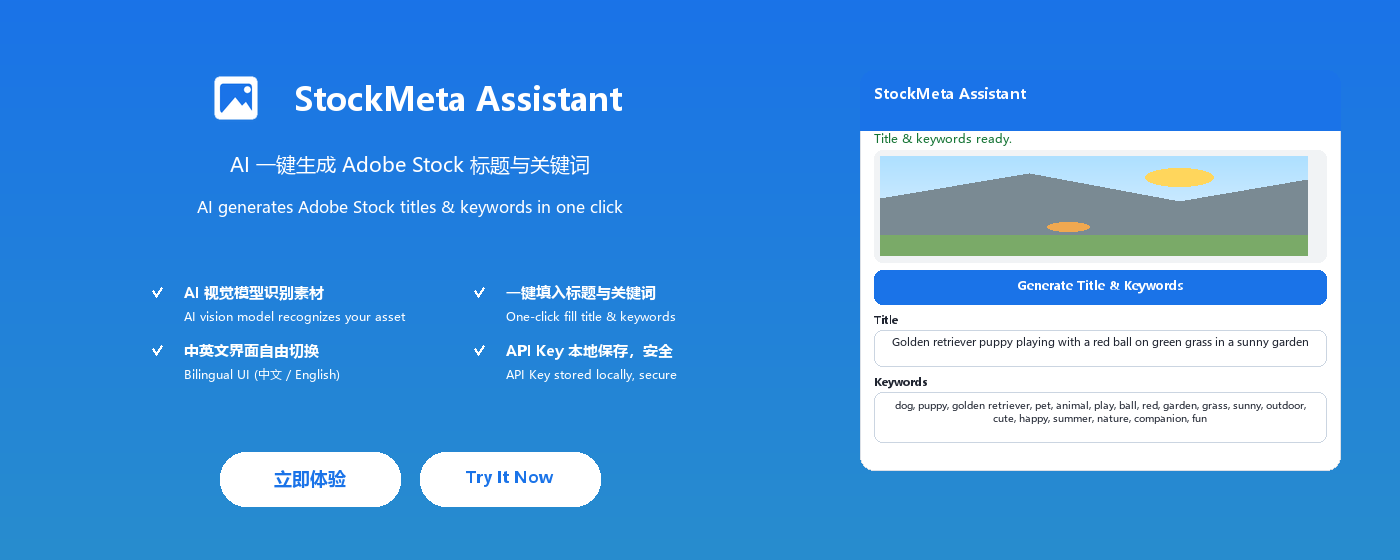
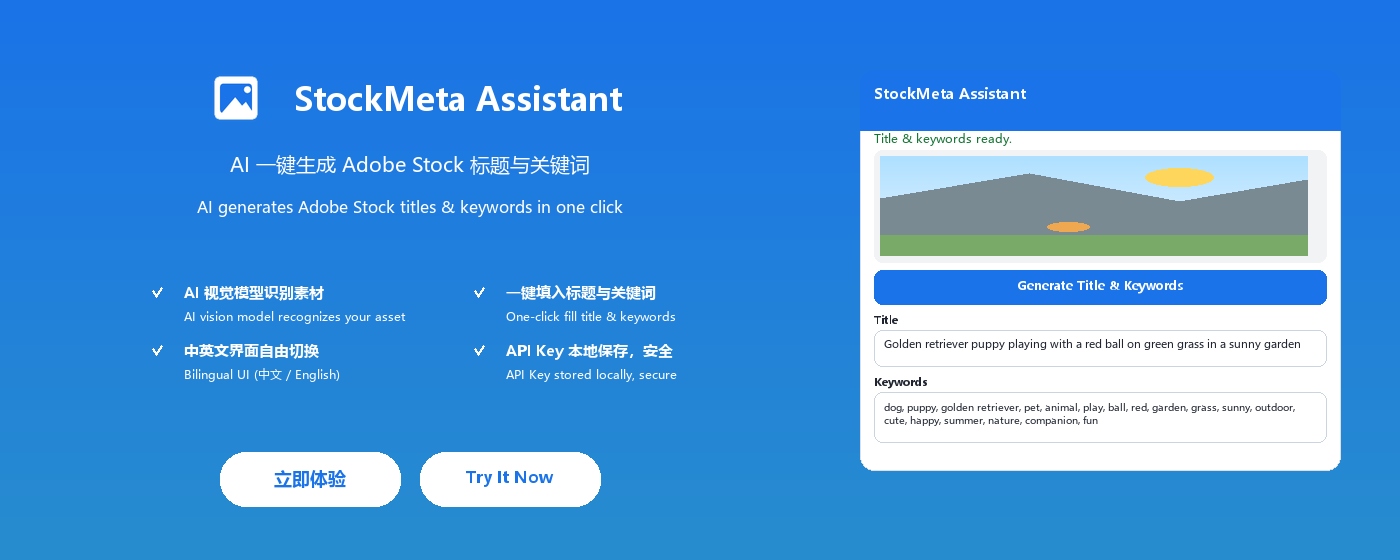
promo 里 mini 面板的 Title / Keywords 文本框改为左对齐段落（新增 left_wrapped()）：真实面板的 textarea 是左对齐，居中排版看着不对。

Changed region(s): [[0.6143, 0.6982, 0.9214, 0.7589], [0.6143, 0.6071, 0.9521, 0.6375]]

diff --git a/scripts/generate_store_assets.py b/scripts/generate_store_assets.py
@@ -145,6 +145,14 @@ def center_wrapped(draw, box, text, f, color, line_h=None, anchor_top=False):
         x = box[0] + (box[2] - box[0] - w) / 2
         draw.text((x, y0 + i * line_h), ln, font=f, fill=color, anchor="la")
 
+def left_wrapped(draw, box, text, f, color, line_h=None):
+    """Left-aligned wrapped paragraph (textareas in the panel read left-aligned,
+    so centering them inside the mock looked wrong)."""
+    lines = wrap(draw, text, f, box[2] - box[0])
+    line_h = line_h or (text_size(draw, "Ag", f)[1] + 4)
+    for i, ln in enumerate(lines):
+        draw.text((box[0], box[1] + i * line_h), ln, font=f, fill=color, anchor="la")
+
 def draw_button(draw, box, text, f, fill, text_color, r=8):
     rr(draw, box, r, fill=fill)
     center_text(draw, box, text, f, text_color)
@@ -814,12 +822,12 @@ def draw_mini_panel(d, img, x, y, w, lang):
     draw_text(d, (cx, cur), SAMPLE[lang]["titleLabel"], font(11, True), INK, anchor="la")
     cur += 18
     rr(d, (cx, cur, cx + cw, cur + 36), 8, fill=WHITE, outline=BORDER, width=1)
-    center_wrapped(d, (cx + 8, cur + 4, cx + cw - 8, cur + 32), SAMPLE_TITLE[lang], font(11), INK, line_h=15, anchor_top=True)
+    left_wrapped(d, (cx + 10, cur + 6, cx + cw - 10, cur + 32), SAMPLE_TITLE[lang], font(11), INK, line_h=15)
     cur += 44
     draw_text(d, (cx, cur), SAMPLE[lang]["keywordsLabel"], font(11, True), INK, anchor="la")
     cur += 18
     rr(d, (cx, cur, cx + cw, cur + 50), 8, fill=WHITE, outline=BORDER, width=1)
-    center_wrapped(d, (cx + 8, cur + 6, cx + cw - 8, cur + 44), ", ".join(SAMPLE_KW[lang][:18]), font(10), INK, line_h=13, anchor_top=True)
+    left_wrapped(d, (cx + 10, cur + 8, cx + cw - 10, cur + 44), ", ".join(SAMPLE_KW[lang][:18]), font(10), INK, line_h=13)
 
 
 # =========================================================================
